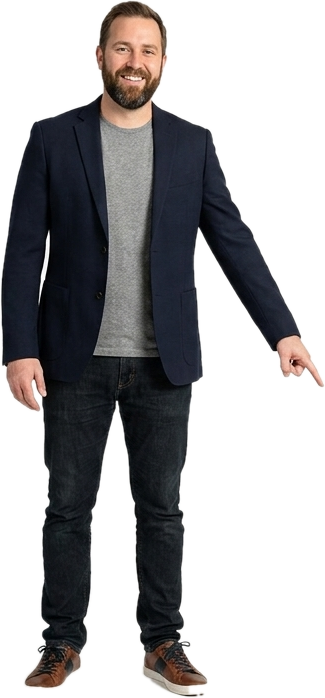
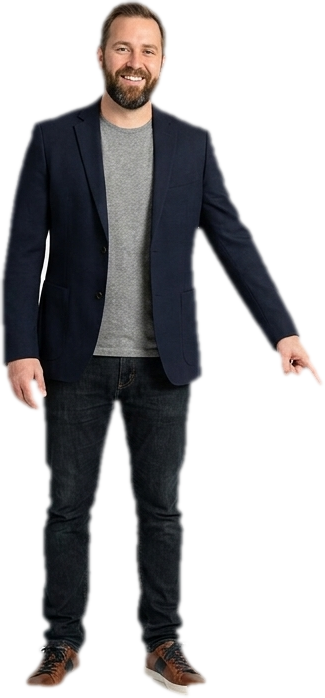
Specialist figure: clean cutout edges with feather, overlap the card
Claude-Session: https://claude.ai/code/session_01WE9vzoQ9mtr5P73SHN7FAP

diff --git a/components/sections/team.tsx b/components/sections/team.tsx
@@ -130,14 +130,14 @@ export function Team() {
               {/* PC: the figure stands in the empty fourth column and points left at the card. */}
               <div
                 aria-hidden="true"
-                className="pointer-events-none relative hidden lg:block"
+                className="pointer-events-none relative z-10 hidden -translate-x-10 lg:block"
               >
                 <Image
                   src="/images/anchor/specialist-anchor.png"
                   alt=""
                   fill
                   sizes="240px"
-                  className="scale-x-[-1] object-contain object-bottom"
+                  className="scale-x-[-1] object-contain object-[left_bottom]"
                 />
               </div>
             </div>

diff --git a/components/sections/specialist-card.tsx b/components/sections/specialist-card.tsx
@@ -68,7 +68,7 @@ export function SpecialistCard({ index }: { index: number }) {
       {/* Phone: the figure peeks over the top edge of the card and points down at it. */}
       <div
         aria-hidden="true"
-        className="relative -mb-px ml-auto mr-6 h-36 w-28 shrink-0 overflow-hidden lg:hidden"
+        className="relative z-10 -mb-3 ml-auto mr-6 h-36 w-28 shrink-0 overflow-hidden lg:hidden"
       >
         <Image
           src="/images/anchor/specialist-anchor.png"
